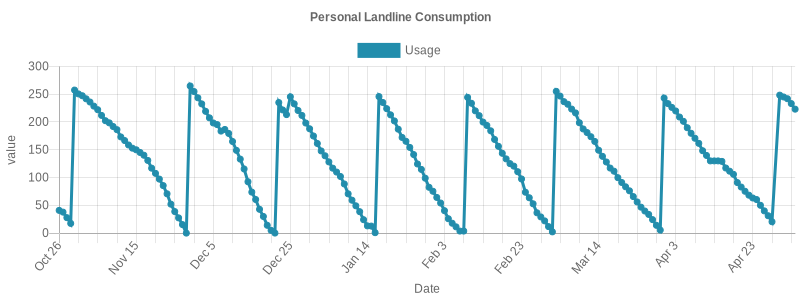
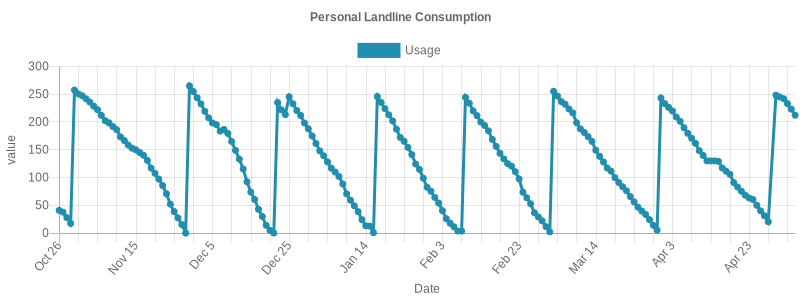
update logs

diff --git a/quota-logs/README.md b/quota-logs/README.md
@@ -189,3 +189,4 @@
 ## Thu May 02 2024 00:37:06 GMT+0200|241.8/250
 ## Fri May 03 2024 00:34:29 GMT+0200|233.09/250
 ## Sat May 04 2024 00:34:34 GMT+0200|223.05/250
+## Sun May 05 2024 00:34:38 GMT+0200|212.1/250
